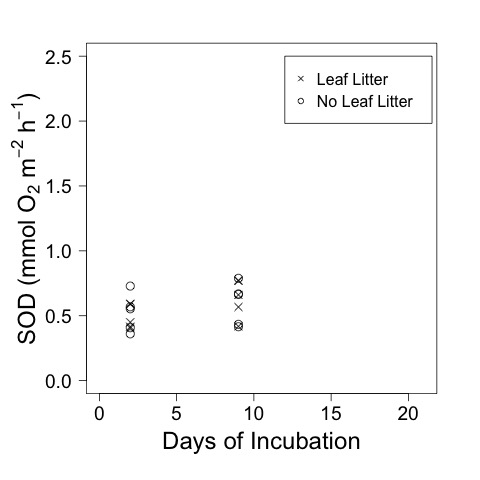
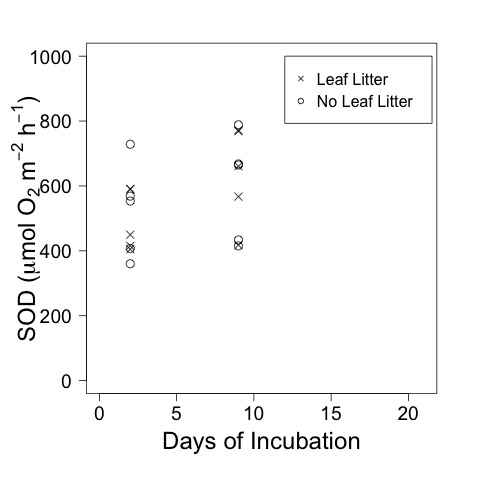
completed repeated measures for leached litter SOD OM normalized SOD

diff --git a/lab_notebook/analysis/leached_litter_Spring_SOD_Analysis.md b/lab_notebook/analysis/leached_litter_Spring_SOD_Analysis.md
@@ -10,7 +10,9 @@
 
 * 17 Aug 2016 - KF - converted DO to umol/L to match litter exp results
 
-* 19 Aug 2016 - KF - normalized SOD by LOI and performed analysis
+* 19 Aug 2016 - KF - normalized SOD by LOI 
+
+* 22 Aug 2016 - KF - Performed repeated measures analysis of LOI normalized and area normalized data
 
 ## Purpose
 
@@ -141,9 +143,9 @@ Dissolved Oxygen by days elapsed for bottles with and without leaf litter
     
 #### Plot Effect of Treatment on Area Norm SOD    
     par(las = 1, mar = c(6, 6, 3, 3))
-    plot(SOD ~ days.elap, data = sod.om, subset = treatment == "LS", ylim = c(0, 2.5), xlim = c(0, 21), xlab = "Days of Incubation", ylab = expression(paste("SOD (mmol ", O[2], " m"^{-2}, " h"^{-1}, ")")), pch = 4, cex.axis = 1.2, cex.lab = 1.5, cex = 1.5)
-    points(SOD ~ days.elap, data = sod.om, subset = treatment == "S", pch = 1, cex = 1.5)
-    legend(12, 2.5, c("Leaf Litter", "No Leaf Litter"), pch = c(4, 1), cex = 1)
+    plot(SOD * 1000 ~ days.elap, data = sod.om, subset = treatment == "LS", ylim = c(0, 1000), xlim = c(0, 21), xlab = "Days of Incubation", ylab = expression(paste("SOD (", mu, "mol ", O[2], " m"^{-2}, " h"^{-1}, ")")), pch = 4, cex.axis = 1.2, cex.lab = 1.5, cex = 1.5)
+    points(SOD * 1000 ~ days.elap, data = sod.om, subset = treatment == "S", pch = 1, cex = 1.5)
+    legend(12, 1000, c("Leaf Litter", "No Leaf Litter"), pch = c(4, 1), cex = 1)
     dev.copy(jpeg, "./output/plots/leached_litter_SOD_by_days.jpg")
     dev.off()
 
@@ -165,3 +167,63 @@ Area normalized SOD by days elapsed for bottles with and without leaf litter
 #### Add to OM normalized data to sod data.frame
 
     sod.om <- data.frame(sod.om, SOD.OM)
+
+### Repeated measures analysis of the OM normalized SOD
+
+#### Load the `lmerTest` package
+
+    library("lmerTest", lib.loc="~/Library/R/3.1/library")  
+
+#### Specify Model
+
+I am using `bod` as the random subject variable.
+
+I changed the model specification from `(days.elap|bod)` to `(1|bod)` because I was getting the error in this Cross Validated question: [http://stats.stackexchange.com/questions/140038/lme4-random-effects](http://stats.stackexchange.com/questions/140038/lme4-random-effects)
+
+
+    (fm <- lmer(SOD.OM ~ 1 + days.elap * treatment + (1|bod), sod.om))
+
+~~~~
+ Linear mixed model fit by REML ['merModLmerTest']
+Formula: SOD.OM ~ 1 + days.elap * treatment + (1 | bod)
+   Data: sod.om
+REML criterion at convergence: -81.4431
+Random effects:
+ Groups   Name        Std.Dev.
+ bod      (Intercept) 0.005395
+ Residual             0.011042
+Number of obs: 20, groups:  bod, 10
+Fixed Effects:
+         (Intercept)     days.elap            treatmentS  days.elap:treatmentS  
+           0.0371089     0.0017893            -0.0012155            -0.0009088  
+
+~~~~
+ 
+    anova(fm)
+
+~~~~
+ 
+Analysis of Variance Table of type III  with  Satterthwaite 
+approximation for degrees of freedom
+                        Sum Sq    Mean Sq NumDF   DenDF F.value  Pr(>F)  
+days.elap           0.00043659 0.00043659     1  8.0003  3.5808 0.09509 .
+treatment           0.00000187 0.00000187     1 15.0522  0.0154 0.90304  
+days.elap:treatment 0.00005058 0.00005058     1  8.0003  0.4149 0.53753  
+
+~~~~
+ 
+#### Plot of the OM Normalized SOD 
+
+    par(las = 1, mar = c(6, 6, 3, 3))
+    plot(SOD.OM * 1000 ~ days.elap, data = sod.om, subset = treatment == "LS", ylim = c(0, 100), xlim = c(0, 21), xlab = "Days of Incubation", ylab = expression(paste("SOD (",mu, "mol ", O[2], "(g AFDM)"^{-1}, ")")), pch = 4, cex.axis = 1.2, cex.lab = 1.5, cex = 1.5)
+    points(SOD.OM * 1000 ~ days.elap, data = sod.om, subset = treatment == "S", pch = 1, cex = 1.5)
+    legend(12, 100, c("Leaf Litter", "No Leaf Litter"), pch = c(4, 1), cex = 1)
+    dev.copy(jpeg, "./output/plots/leached_litter_SOD.OM_by_days.jpg")
+    dev.off()
+
+
+
+
+![Area normalized SOD by days elapsed](../output/plots/leached_litter_SOD.OM_by_days.jpg)
+
+Area normalized SOD by days elapsed for bottles with and without leaf litter

diff --git a/lab_notebook/analysis/CPOM_Flux_SOD_Analysis.md b/lab_notebook/analysis/CPOM_Flux_SOD_Analysis.md
@@ -198,7 +198,7 @@ Load `lmeTest` package
 
 Using this package, I specify the model where the `bod` is the random subject variable.
                                                                                                                                          
-    (fm <- lmer(sod.OM ~ 1 + days.elap * CPOM * nutrient + (1 + days.elap|bod), sod))
+    (fm <- lmer(sod.OM ~ 1 + days.elap * CPOM * nutrient + (1|bod), sod))
 
 
 ~~~~
@@ -326,19 +326,17 @@ The `lmerTest` package needs to be loaded from above.
 
 Specify the model for the DO
 
-    (do.mod <- lmer(DO.T0 ~ 1 + days.elap * CPOM * nutrient + (1 + days.elap|bod), sod)) # wrapping in () gives ouput
+    (do.mod <- lmer(DO.T0 ~ 1 + days.elap * CPOM * nutrient + (1|bod), sod)) # wrapping in () gives ouput
 
 ~~~~
-
-Linear mixed model fit by REML ['lmerMod']
-Formula: DO.T0 ~ 1 + days.elap * CPOM * nutrient + (1 + days.elap | bod)
+Linear mixed model fit by REML ['merModLmerTest']
+Formula: DO.T0 ~ 1 + days.elap * CPOM * nutrient + (1 | bod)
    Data: sod
 REML criterion at convergence: -222.9481
 Random effects:
- Groups   Name        Std.Dev.  Corr
- bod      (Intercept) 0.000e+00     
-          days.elap   5.596e-11  NaN
- Residual             3.790e-02     
+ Groups   Name        Std.Dev.
+ bod      (Intercept) 0.0000  
+ Residual             0.0379  
 Number of obs: 79, groups:  bod, 16
 Fixed Effects:
                   (Intercept)                      days.elap  
